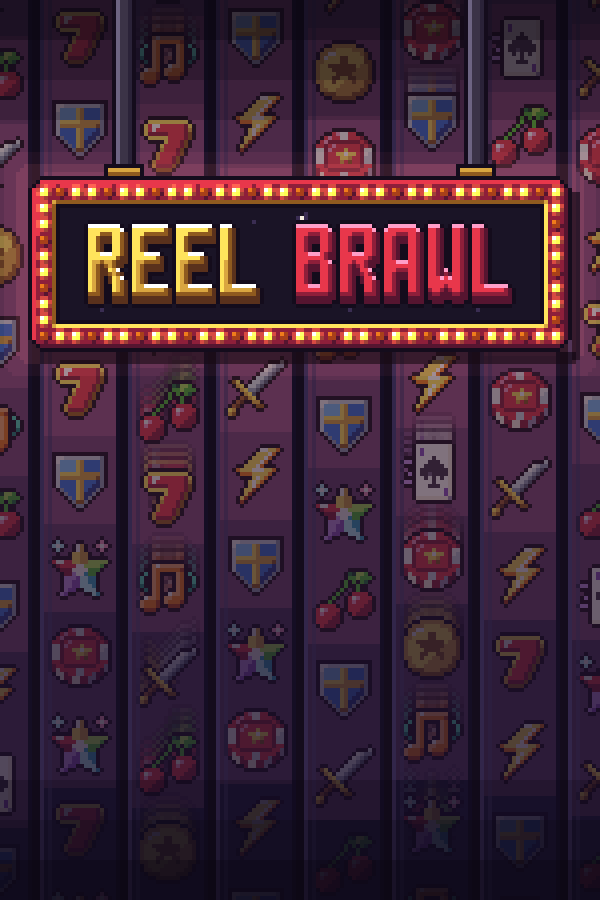
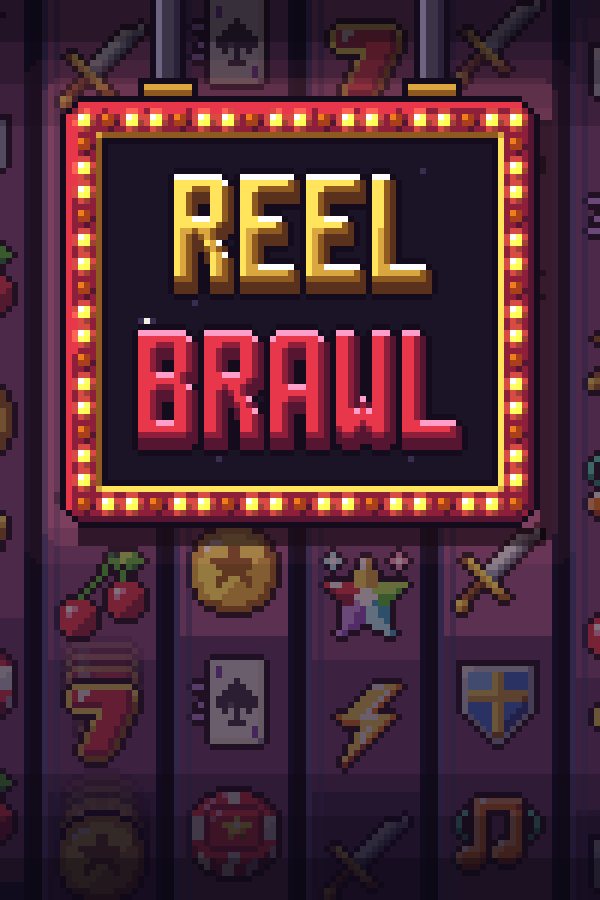
Capsule approved: the sign over the reels at all 7 Steam sizes, upload-ready (the portrait sizes carry the stacked sign)
Claude-Session: https://claude.ai/code/session_013JAoFjrCifqJMgxmdrHS8s

diff --git a/art/capsule/v3/steam.js b/art/capsule/v3/steam.js
@@ -254,10 +254,12 @@ export async function outputs() {
   add('small', 462, 174, 3, capsule({ W: 154, H: 58, sw: 136, sy: 7, symbols: false, reach: 0.8 }));
   add('small_2px', 462, 174, 2, capsule({ W: 231, H: 87, sw: 160, sy: 21, smear: [3, 8], seed: 5 }), true);
   // the portraits: one line as long as the width takes, in the upper third; and REEL over BRAWL, far bigger
-  add('vertical', 748, 896, 5, capsule({ W: 150, H: 180, sw: 136, sy: 34, smear: [2, 5], reach: 1.5, seed: 21 }));
-  add('library', 600, 900, 4, capsule({ W: 150, H: 225, sw: 136, sy: 44, smear: [2, 5], reach: 1.8, seed: 33 }));
-  add('vertical_stacked', 748, 896, 8, capsule({ W: 94, H: 112, sw: 80, sy: 12, stacked: true, smear: [1], seed: 41 }), true);
-  add('library_stacked', 600, 900, 6, capsule({ W: 100, H: 150, sw: 80, sy: 16, stacked: true, smear: [1], reach: 1.3, seed: 44 }), true);
+  // The portrait sizes carry the stacked sign (user, 2026-11-11: "I like it let's keep it", on the recommended set); the
+  // one-line versions stay in alt/.
+  add('vertical', 748, 896, 8, capsule({ W: 94, H: 112, sw: 80, sy: 12, stacked: true, smear: [1], seed: 41 }));
+  add('library', 600, 900, 6, capsule({ W: 100, H: 150, sw: 80, sy: 16, stacked: true, smear: [1], reach: 1.3, seed: 44 }));
+  add('vertical_oneline', 748, 896, 5, capsule({ W: 150, H: 180, sw: 136, sy: 34, smear: [2, 5], reach: 1.5, seed: 21 }), true);
+  add('library_oneline', 600, 900, 4, capsule({ W: 150, H: 225, sw: 136, sy: 44, smear: [2, 5], reach: 1.8, seed: 33 }), true);
   // library hero, 20px: the wall alone, lit from the middle where Steam lays the logo; the edges fall to plum
   {
     const W = 192;

diff --git a/docs/ROADMAP.md b/docs/ROADMAP.md
@@ -68,8 +68,9 @@ whole capsule, over "the background we had once at the title screen with all the
 https://claude.ai/artifact/M3nQW9D3yvfcSJxYNmV5JE; `make.mjs sign`: sign over the reels, sign only, and four with
 machines or faces). **The capsule is the sign over the reels (user, 2026-11-11: "its sign over the reels all day").**
 Polished and built at all 7 Steam sizes (https://claude.ai/artifact/SaC8c7y8v8WE1E8mAicNKT; upload-ready in
-`art/capsule/steam/`, `node art/capsule/v3/make.mjs steam`). Waiting on the user: the stacked sign for the two portrait
-sizes (in `alt/`, recommended) and the big-sign small capsule (the default) against the smaller sign with symbols.
+`art/capsule/steam/`, `node art/capsule/v3/make.mjs steam`). Approved (user, 2026-11-11: "I like it let's keep it"; the outside reels keep their symbols, behind the sign's ends
+too): the portrait sizes carry the stacked sign, the small capsule the big sign, the hero stays the reel wall (the
+alternatives are in `alt/`). They go up with the store page once Steamworks' tax check clears.
 
 **In progress (2026-11-09): the launch QA campaign** (user: "really granular check everything"). Eight testers (rules vs
 text, combinations, functionality, UI, an 8-run playtest, the demo as a stranger, Steam readiness, the market); about
